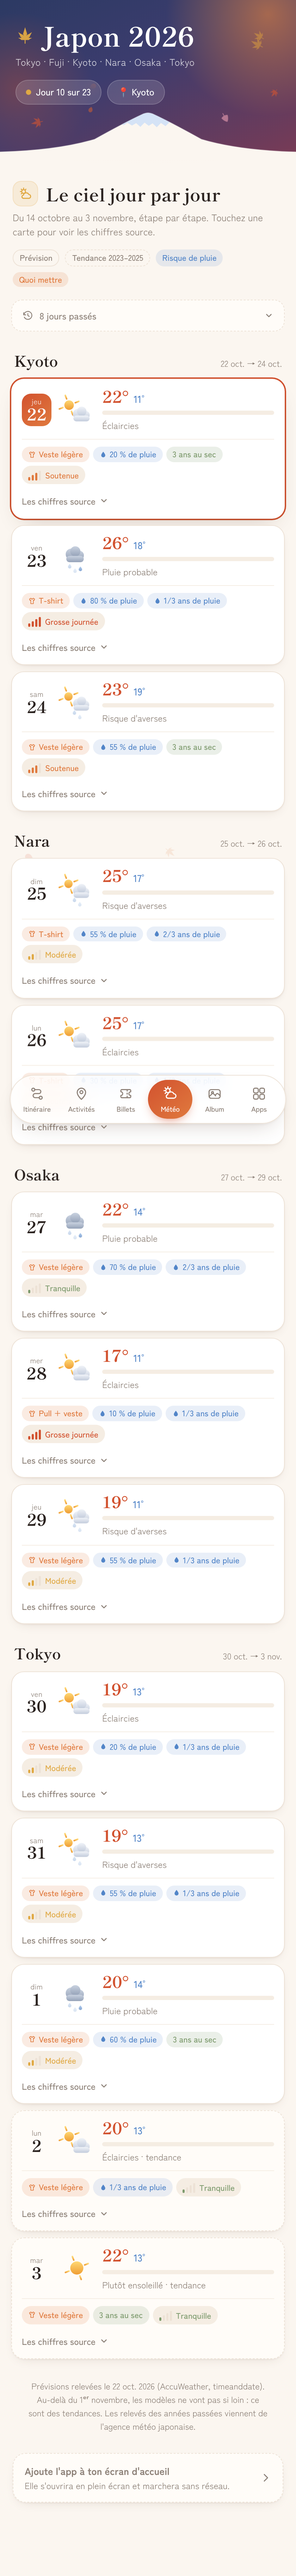
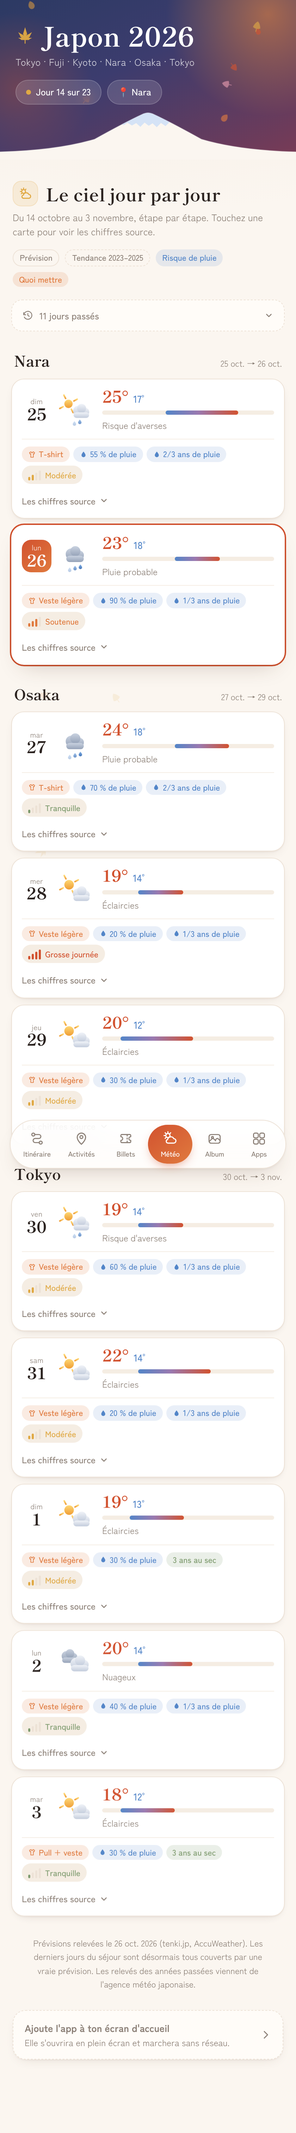
Météo : prévisions rafraîchies au 26 oct. 2026
Source principale désormais tenki.jp (Association météo du Japon), qui
donne les bulletins du jour directement en °C, AccuWeather en second.
Les 2 et 3 novembre passent de la tendance à une vraie prévision.
Open-Meteo reste injoignable depuis la session distante.

Claude-Session: https://claude.ai/code/session_01LpiqkgmVfMmZjFmkTCYUMt

Changed region(s): [[0.0, 0.0, 1.0, 0.9652], [0.9595, 0.2491, 0.9905, 0.3114], [0.9595, 0.1557, 0.9905, 0.1868]]

diff --git a/data.js b/data.js
@@ -199,5 +199,5 @@ const ACTIVITES = [
 
 // --- MÉTÉO --------------------------------------------------
 // Prévisions jusqu'au 20, puis tendance d'après 2023-2025 (JMA).
-const METEO_MAJ = "22 oct. 2026";
-const METEO = [{"date": "2026-10-14", "lieu": "Tokyo", "type": "prevision", "max": 26, "min": 17, "ciel": "eclaircies", "pluie": 30, "rainy": 0, "hist": {"2023": [23, 13, 0], "2024": [26, 17, 0], "2025": [21, 16, 0]}, "src": {"JMA": [23, 17, 30], "Weather Company": [26, 17, null], "AccuWeather": [28, 17, 25]}}, {"date": "2026-10-15", "lieu": "Tokyo", "type": "prevision", "max": 24, "min": 16, "ciel": "eclaircies", "pluie": 30, "rainy": 2, "hist": {"2023": [17, 14, 43.5], "2024": [27, 18, 0], "2025": [20, 15, 3.0]}, "src": {"JMA": [25, 15, 30], "Weather Company": [23, 16, null], "AccuWeather": [24, 16, 5]}}, {"date": "2026-10-16", "lieu": "Tokyo", "type": "prevision", "max": 26, "min": 18, "ciel": "eclaircies", "pluie": 10, "rainy": 1, "hist": {"2023": [26, 12, 0], "2024": [26, 19, 0], "2025": [21, 16, 8.0]}, "src": {"timeanddate": [26, 18, 10]}}, {"date": "2026-10-17", "lieu": "Tokyo", "type": "prevision", "max": 26, "min": 16, "ciel": "soleil", "pluie": 10, "rainy": 0, "hist": {"2023": [25, 15, 0], "2024": [26, 21, 0], "2025": [25, 16, 0]}, "src": {"timeanddate": [26, 16, 10]}}, {"date": "2026-10-18", "lieu": "Kawaguchiko", "type": "prevision", "max": 19, "min": 12, "ciel": "eclaircies", "pluie": 20, "rainy": null, "hist": {}, "src": {"AccuWeather": [19, 12, 20], "timeanddate": [19, 11, 25]}}, {"date": "2026-10-19", "lieu": "Kawaguchiko", "type": "prevision", "max": 20, "min": 12, "ciel": "nuages", "pluie": 40, "rainy": null, "hist": {}, "src": {"AccuWeather": [20, 12, 40], "timeanddate": [19, 11, 45]}}, {"date": "2026-10-20", "lieu": "Kyoto", "type": "prevision", "max": 28, "min": 20, "ciel": "averses", "pluie": 70, "rainy": 2, "hist": {"2023": [25, 15, 1.0], "2024": [21, 15, 0], "2025": [24, 17, 4.5]}, "src": {"timeanddate": [28, 20, 70]}}, {"date": "2026-10-21", "lieu": "Kyoto", "type": "prevision", "max": 27, "min": 15, "ciel": "averses", "pluie": 50, "rainy": 0, "hist": {"2023": [19, 11, 0], "2024": [25, 15, 0], "2025": [19, 15, 0]}, "src": {"timeanddate": [29, 15, 50], "timeanddate (centre-ville)": [26, 14, null]}}, {"date": "2026-10-22", "lieu": "Kyoto", "type": "prevision", "max": 22, "min": 11, "ciel": "eclaircies", "pluie": 20, "rainy": 0, "hist": {"2023": [20, 10, 0], "2024": [24, 18, 0], "2025": [16, 13, 0.5]}, "src": {"AccuWeather": [23, 10, 20], "timeanddate": [22, 11, 24]}}, {"date": "2026-10-23", "lieu": "Kyoto", "type": "prevision", "max": 26, "min": 18, "ciel": "pluie", "pluie": 80, "rainy": 1, "hist": {"2023": [24, 12, 0], "2024": [29, 22, 2.5], "2025": [24, 12, 0]}, "src": {"AccuWeather": [26, 18, 88]}}, {"date": "2026-10-24", "lieu": "Kyoto", "type": "prevision", "max": 23, "min": 19, "ciel": "averses", "pluie": 55, "rainy": 0, "hist": {"2023": [24, 12, 0], "2024": [24, 18, 0], "2025": [23, 12, 0]}, "src": {"AccuWeather": [23, 19, 56]}}, {"date": "2026-10-25", "lieu": "Nara", "type": "prevision", "max": 25, "min": 17, "ciel": "averses", "pluie": 55, "rainy": 2, "hist": {"2023": [24, 12, 7.0], "2024": [25, 16, 0], "2025": [21, 13, 6.5]}, "src": {"AccuWeather": [25, 17, 56]}}, {"date": "2026-10-26", "lieu": "Nara", "type": "prevision", "max": 25, "min": 17, "ciel": "eclaircies", "pluie": 30, "rainy": 1, "hist": {"2023": [23, 11, 0], "2024": [21, 16, 0], "2025": [20, 16, 2.5]}, "src": {"AccuWeather": [26, 17, 25]}}, {"date": "2026-10-27", "lieu": "Osaka", "type": "prevision", "max": 22, "min": 14, "ciel": "pluie", "pluie": 70, "rainy": 2, "hist": {"2023": [24, 14, 2.5], "2024": [27, 18, 2.5], "2025": [23, 15, 0]}, "src": {"AccuWeather": [22, 11, 80], "timeanddate": [21, 15, 60]}}, {"date": "2026-10-28", "lieu": "Osaka", "type": "prevision", "max": 17, "min": 11, "ciel": "eclaircies", "pluie": 10, "rainy": 1, "hist": {"2023": [22, 13, 0], "2024": [22, 17, 32.0], "2025": [19, 12, 0]}, "src": {"AccuWeather": [17, 10, 1], "timeanddate": [18, 12, 10]}}, {"date": "2026-10-29", "lieu": "Osaka", "type": "prevision", "max": 19, "min": 11, "ciel": "averses", "pluie": 55, "rainy": 1, "hist": {"2023": [20, 14, 0], "2024": [19, 17, 4.0], "2025": [20, 10, 0]}, "src": {"AccuWeather": [20, 12, 55], "timeanddate": [19, 9, null]}}, {"date": "2026-10-30", "lieu": "Tokyo", "type": "prevision", "max": 19, "min": 13, "ciel": "eclaircies", "pluie": 20, "rainy": 1, "hist": {"2023": [22, 12, 0], "2024": [22, 13, 17.5], "2025": [19, 10, 0]}, "src": {"AccuWeather": [19, 13, 25], "timeanddate": [19, 13, 5]}}, {"date": "2026-10-31", "lieu": "Tokyo", "type": "prevision", "max": 19, "min": 13, "ciel": "averses", "pluie": 55, "rainy": 1, "hist": {"2023": [21, 14, 0], "2024": [20, 13, 0], "2025": [17, 13, 37.0]}, "src": {"AccuWeather": [19, 13, 57]}}, {"date": "2026-11-01", "lieu": "Tokyo", "type": "prevision", "max": 20, "min": 14, "ciel": "pluie", "pluie": 60, "rainy": 0, "hist": {"2023": [23, 13, 0], "2024": [22, 12, 0.5], "2025": [22, 12, 0.5]}, "src": {"AccuWeather": [20, 14, 60]}}, {"date": "2026-11-02", "lieu": "Tokyo", "type": "tendance", "max": 20, "min": 13, "ciel": "eclaircies", "pluie": null, "rainy": 1, "hist": {"2023": [25, 13, 0], "2024": [17, 15, 33.5], "2025": [19, 12, 0]}}, {"date": "2026-11-03", "lieu": "Tokyo", "type": "tendance", "max": 22, "min": 13, "ciel": "soleil", "pluie": null, "rainy": 0, "hist": {"2023": [24, 14, 0], "2024": [23, 14, 0], "2025": [19, 11, 0]}}];
+const METEO_MAJ = "26 oct. 2026";
+const METEO = [{"date": "2026-10-14", "lieu": "Tokyo", "type": "prevision", "max": 26, "min": 17, "ciel": "eclaircies", "pluie": 30, "rainy": 0, "hist": {"2023": [23, 13, 0], "2024": [26, 17, 0], "2025": [21, 16, 0]}, "src": {"JMA": [23, 17, 30], "Weather Company": [26, 17, null], "AccuWeather": [28, 17, 25]}}, {"date": "2026-10-15", "lieu": "Tokyo", "type": "prevision", "max": 24, "min": 16, "ciel": "eclaircies", "pluie": 30, "rainy": 2, "hist": {"2023": [17, 14, 43.5], "2024": [27, 18, 0], "2025": [20, 15, 3.0]}, "src": {"JMA": [25, 15, 30], "Weather Company": [23, 16, null], "AccuWeather": [24, 16, 5]}}, {"date": "2026-10-16", "lieu": "Tokyo", "type": "prevision", "max": 26, "min": 18, "ciel": "eclaircies", "pluie": 10, "rainy": 1, "hist": {"2023": [26, 12, 0], "2024": [26, 19, 0], "2025": [21, 16, 8.0]}, "src": {"timeanddate": [26, 18, 10]}}, {"date": "2026-10-17", "lieu": "Tokyo", "type": "prevision", "max": 26, "min": 16, "ciel": "soleil", "pluie": 10, "rainy": 0, "hist": {"2023": [25, 15, 0], "2024": [26, 21, 0], "2025": [25, 16, 0]}, "src": {"timeanddate": [26, 16, 10]}}, {"date": "2026-10-18", "lieu": "Kawaguchiko", "type": "prevision", "max": 19, "min": 12, "ciel": "eclaircies", "pluie": 20, "rainy": null, "hist": {}, "src": {"AccuWeather": [19, 12, 20], "timeanddate": [19, 11, 25]}}, {"date": "2026-10-19", "lieu": "Kawaguchiko", "type": "prevision", "max": 20, "min": 12, "ciel": "nuages", "pluie": 40, "rainy": null, "hist": {}, "src": {"AccuWeather": [20, 12, 40], "timeanddate": [19, 11, 45]}}, {"date": "2026-10-20", "lieu": "Kyoto", "type": "prevision", "max": 28, "min": 20, "ciel": "averses", "pluie": 70, "rainy": 2, "hist": {"2023": [25, 15, 1.0], "2024": [21, 15, 0], "2025": [24, 17, 4.5]}, "src": {"timeanddate": [28, 20, 70]}}, {"date": "2026-10-21", "lieu": "Kyoto", "type": "prevision", "max": 27, "min": 15, "ciel": "averses", "pluie": 50, "rainy": 0, "hist": {"2023": [19, 11, 0], "2024": [25, 15, 0], "2025": [19, 15, 0]}, "src": {"timeanddate": [29, 15, 50], "timeanddate (centre-ville)": [26, 14, null]}}, {"date": "2026-10-22", "lieu": "Kyoto", "type": "prevision", "max": 22, "min": 11, "ciel": "eclaircies", "pluie": 20, "rainy": 0, "hist": {"2023": [20, 10, 0], "2024": [24, 18, 0], "2025": [16, 13, 0.5]}, "src": {"AccuWeather": [23, 10, 20], "timeanddate": [22, 11, 24]}}, {"date": "2026-10-23", "lieu": "Kyoto", "type": "prevision", "max": 26, "min": 18, "ciel": "pluie", "pluie": 80, "rainy": 1, "hist": {"2023": [24, 12, 0], "2024": [29, 22, 2.5], "2025": [24, 12, 0]}, "src": {"AccuWeather": [26, 18, 88]}}, {"date": "2026-10-24", "lieu": "Kyoto", "type": "prevision", "max": 23, "min": 19, "ciel": "averses", "pluie": 55, "rainy": 0, "hist": {"2023": [24, 12, 0], "2024": [24, 18, 0], "2025": [23, 12, 0]}, "src": {"AccuWeather": [23, 19, 56]}}, {"date": "2026-10-25", "lieu": "Nara", "type": "prevision", "max": 25, "min": 17, "ciel": "averses", "pluie": 55, "rainy": 2, "hist": {"2023": [24, 12, 7.0], "2024": [25, 16, 0], "2025": [21, 13, 6.5]}, "src": {"AccuWeather": [25, 17, 56]}}, {"date": "2026-10-26", "lieu": "Nara", "type": "prevision", "max": 23, "min": 18, "ciel": "pluie", "pluie": 90, "rainy": 1, "hist": {"2023": [23, 11, 0], "2024": [21, 16, 0], "2025": [20, 16, 2.5]}, "src": {"AccuWeather": [23, 19, 100], "timeanddate": [21, 17, 95]}}, {"date": "2026-10-27", "lieu": "Osaka", "type": "prevision", "max": 24, "min": 18, "ciel": "pluie", "pluie": 70, "rainy": 2, "hist": {"2023": [24, 14, 2.5], "2024": [27, 18, 2.5], "2025": [23, 15, 0]}, "src": {"tenki.jp": [24, 18, 70], "AccuWeather": [24, 14, 11]}}, {"date": "2026-10-28", "lieu": "Osaka", "type": "prevision", "max": 19, "min": 14, "ciel": "eclaircies", "pluie": 20, "rainy": 1, "hist": {"2023": [22, 13, 0], "2024": [22, 17, 32.0], "2025": [19, 12, 0]}, "src": {"tenki.jp": [19, 15, 20], "AccuWeather": [18, 8, 1]}}, {"date": "2026-10-29", "lieu": "Osaka", "type": "prevision", "max": 20, "min": 12, "ciel": "eclaircies", "pluie": 30, "rainy": 1, "hist": {"2023": [20, 14, 0], "2024": [19, 17, 4.0], "2025": [20, 10, 0]}, "src": {"tenki.jp": [20, 11, 30], "AccuWeather": [19, 14, 1]}}, {"date": "2026-10-30", "lieu": "Tokyo", "type": "prevision", "max": 19, "min": 14, "ciel": "averses", "pluie": 60, "rainy": 1, "hist": {"2023": [22, 12, 0], "2024": [22, 13, 17.5], "2025": [19, 10, 0]}, "src": {"AccuWeather": [18, 15, 60], "AccuWeather (Ueno)": [19, 14, null]}}, {"date": "2026-10-31", "lieu": "Tokyo", "type": "prevision", "max": 22, "min": 14, "ciel": "eclaircies", "pluie": 20, "rainy": 1, "hist": {"2023": [21, 14, 0], "2024": [20, 13, 0], "2025": [17, 13, 37.0]}, "src": {"AccuWeather (Haneda)": [21, 14, null], "AccuWeather (Akatsuka)": [22, 13, null]}}, {"date": "2026-11-01", "lieu": "Tokyo", "type": "prevision", "max": 19, "min": 13, "ciel": "eclaircies", "pluie": 30, "rainy": 0, "hist": {"2023": [23, 13, 0], "2024": [22, 12, 0.5], "2025": [22, 12, 0.5]}, "src": {"tenki.jp": [19, 12, 30], "AccuWeather": [18, 14, 50]}}, {"date": "2026-11-02", "lieu": "Tokyo", "type": "prevision", "max": 20, "min": 14, "ciel": "nuages", "pluie": 40, "rainy": 1, "hist": {"2023": [25, 13, 0], "2024": [17, 15, 33.5], "2025": [19, 12, 0]}, "src": {"tenki.jp": [20, 14, 30], "AccuWeather": [23, 9, 80]}}, {"date": "2026-11-03", "lieu": "Tokyo", "type": "prevision", "max": 18, "min": 12, "ciel": "eclaircies", "pluie": 30, "rainy": 0, "hist": {"2023": [24, 14, 0], "2024": [23, 14, 0], "2025": [19, 11, 0]}, "src": {"tenki.jp": [18, 12, 30], "AccuWeather": [16, 6, null]}}];

diff --git a/app.js b/app.js
@@ -205,7 +205,7 @@ function wicon(k, w) {
     </article>`;
   }
   $('#meteo').innerHTML = tiroir(seau.p, nbPasses, ['jour passé', 'jours passés']) + seau.v;
-  $('#maj').textContent = `Prévisions relevées le ${METEO_MAJ} (AccuWeather, timeanddate). Au-delà du 1ᵉʳ novembre, les modèles ne vont pas si loin : ce sont des tendances. Les relevés des années passées viennent de l'agence météo japonaise.`;
+  $('#maj').textContent = `Prévisions relevées le ${METEO_MAJ} (tenki.jp, AccuWeather). Les derniers jours du séjour sont désormais tous couverts par une vraie prévision. Les relevés des années passées viennent de l'agence météo japonaise.`;
 })();
 
 /* ============================================================

diff --git a/sw.js b/sw.js
@@ -1,6 +1,6 @@
 // Garde l'app disponible hors ligne (métro, avion…).
 // Changez VERSION à chaque mise à jour pour forcer le rafraîchissement.
-const VERSION = 'japon-v34';
+const VERSION = 'japon-v35';
 const FILES = ['./', 'index.html', 'installer.html', 'selma.html', 'app.js', 'data.js', 'icones-apps.js', 'manifest.webmanifest', 'icon-192.png', 'icon-512.png',
   // les billets livrés avec l'app (chiffrés), pour les avoir au portique sans réseau
   'billets/2026-10-13-af186-26C.jpg.enc',
